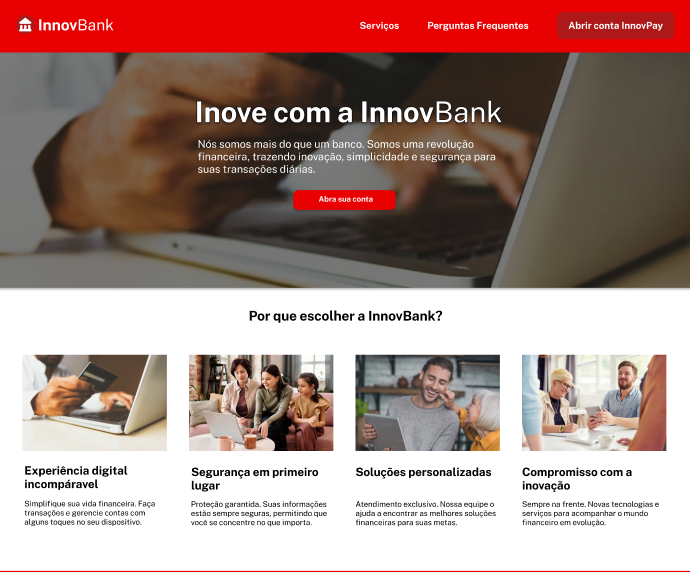
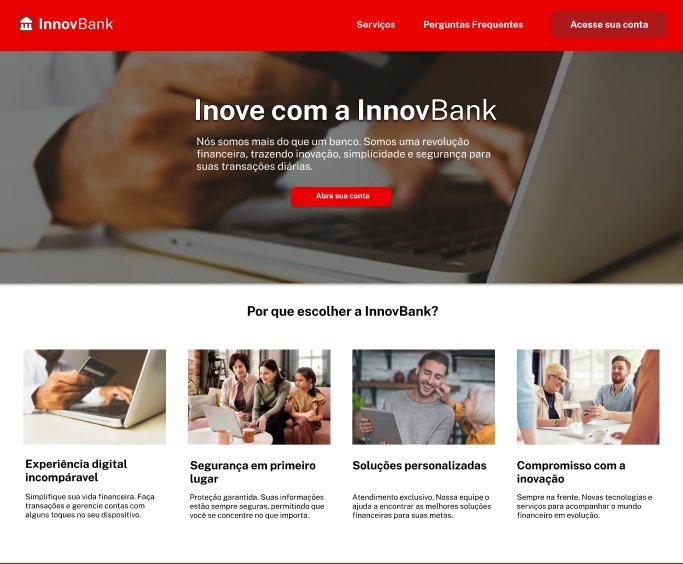
update README.md

diff --git a/README.md b/README.md
@@ -15,10 +15,11 @@ Esse projeto foi desenvolvido com as seguintes tecnologias:
 
 - HTML
 - CSS
+- Bootstrap
 
 
 ## 💻 Sobre o Projeto
 
-O projeto consiste em uma aplicação web para o banco chamado InnovBank. Por meio dela, pode-se obter informações sobre a InnovBank bem como contratar seus serviços.
+O projeto consiste em uma aplicação web para o banco chamado InnovBank. Por meio dela, pode-se obter informações sobre a InnovBank bem como fazer cadastro e/ou login no banco.
 
 - <a href="https://www.figma.com/file/oCVLCjUfilHXaCm0uYDRRY/InnovBank?type=design&node-id=0%3A1&mode=design&t=yFthjIAdjlOx2gDC-1">Link do Figma</a> 
